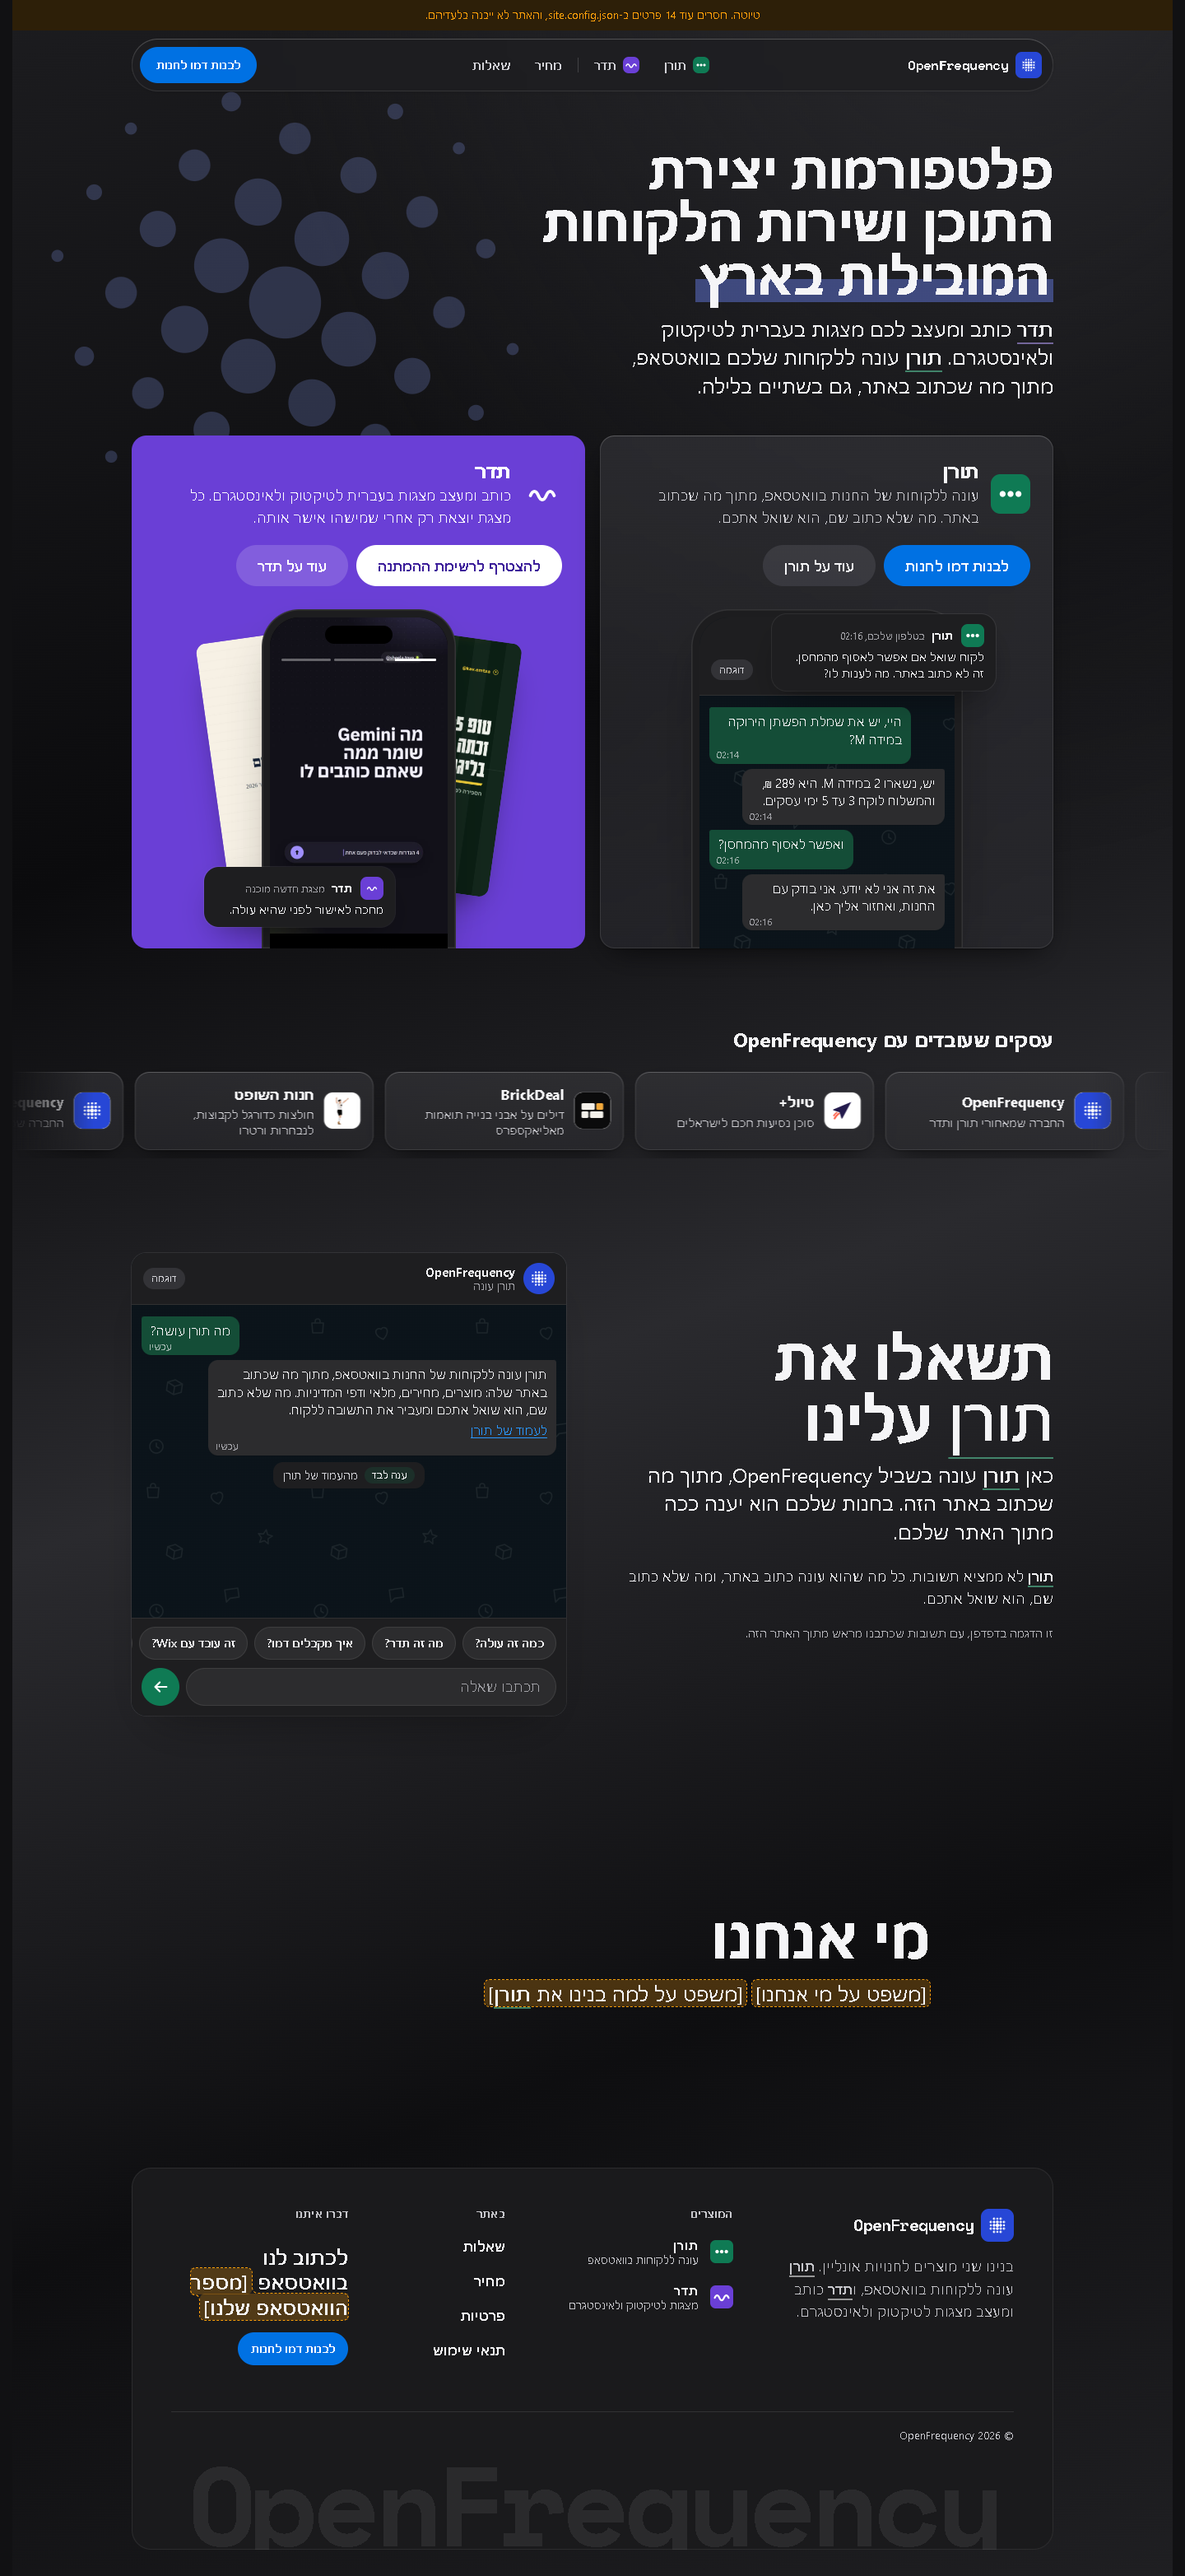
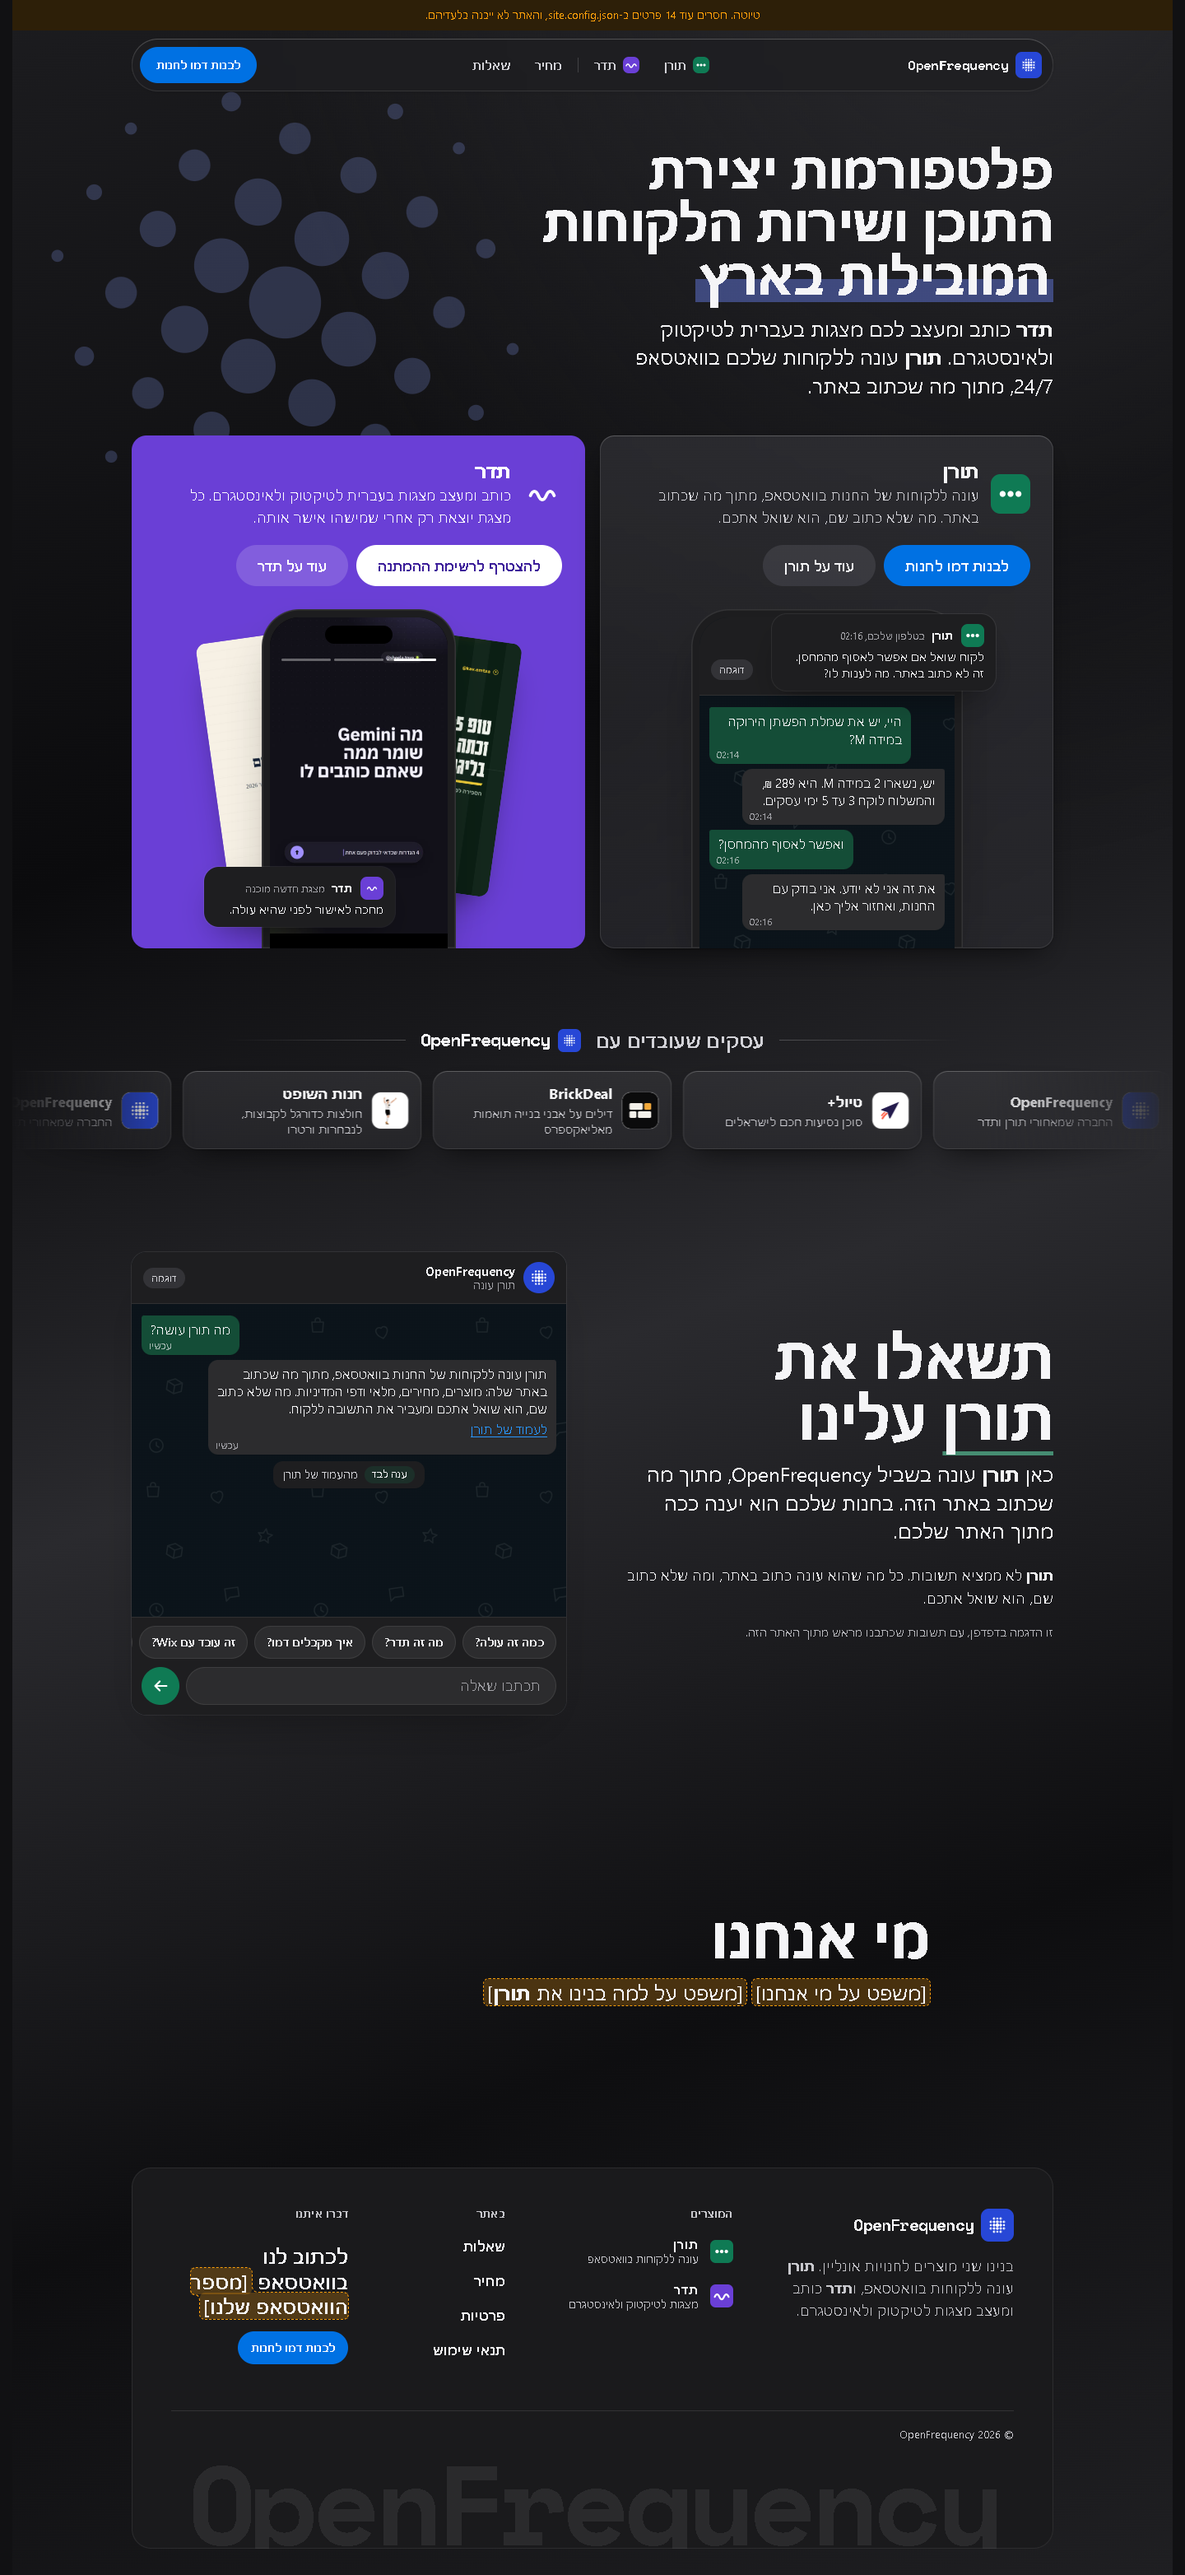
The businesses strip gets a proper title, room for its shadows, wider fades and a slower pace; names are bold in text and underlined only in headings; Toran answers 24/7
Claude-Session: https://claude.ai/code/session_013ytyKksuwzF2xehLBuYDbT

diff --git a/src/style.css b/src/style.css
@@ -244,12 +244,14 @@ p:last-child { margin-bottom: 0; }
 .mark.toran { background: var(--toran); }
 .mark.teder { background: var(--teder); }
 /* Toran and Teder inside a sentence, set as names (markNames in lib.mjs), so nobody reads them as the plain words.
-   Quietly: the sentence's own ink, a step heavier, over a thin line in the product's colour. */
-.pn { font-weight: 600; text-decoration: underline 2px color-mix(in srgb, var(--pn) 55%, transparent); text-underline-offset: 0.28em; text-decoration-skip-ink: none; }
+   In running text the name is bold, nothing more; in a heading, already bold, it sits on a thin line in the
+   product's colour. */
+.pn { font-weight: 700; }
+:is(h1, h2, h3) .pn { text-decoration: underline 0.07em color-mix(in srgb, var(--pn) 60%, transparent); text-underline-offset: 0.2em; text-decoration-skip-ink: none; }
 .pn.toran { --pn: var(--toran-name); }
 .pn.teder { --pn: var(--teder-name); }
-/* on Teder's violet and the dark footer, the line is white */
-.teder-door .pn, .teder-field .pn, .foot .pn { --pn: #fff; }
+/* on Teder's violet the line is white */
+.teder-field .pn, .teder-door .pn { --pn: #fff; }
 .mark.inline { display: inline-block; vertical-align: -0.18em; margin-inline-end: 0.3em; --s: 1.05em; }
 
 /* ------------------------------------------------------------ buttons and fields */
@@ -450,12 +452,23 @@ input:focus, textarea:focus { outline: none; border-color: var(--accent-fill); b
    by one list's width, so the loop has no seam; it stops under the pointer or on focus, and stands still for anyone
    who asked for less motion, as a row they can scroll. */
 .clients-sec { padding-top: clamp(48px, 6vw, 80px); }
-.clients-sec h2 { font-size: var(--fs-lead); line-height: 1.25; }
-.clients { margin-top: 18px; overflow: hidden; direction: ltr; -webkit-mask-image: linear-gradient(90deg, transparent, #000 7%, #000 93%, transparent); mask-image: linear-gradient(90deg, transparent, #000 7%, #000 93%, transparent); }
-.clients-row { display: flex; width: max-content; animation: clients calc(var(--n) * 5s) linear infinite; }
+/* the title sits centred between two hairlines that fade out, our name in its own type with the mark */
+.clients-h { display: flex; align-items: center; justify-content: center; gap: 18px; color: var(--ink-2); font-size: var(--fs-lead); font-weight: 600; line-height: 1.3; text-align: center; }
+.clients-h > span:first-child { flex: none; }
+.clients-of { display: inline-flex; flex: none; align-items: center; gap: 9px; color: var(--ink); }
+.clients-of b { direction: ltr; font: 700 0.92em/1 var(--wordmark); letter-spacing: -0.04em; }
+.clients-h::before, .clients-h::after { content: ""; flex: 1 1 0; max-width: 220px; height: 1px; }
+.clients-h::before { background: linear-gradient(to left, transparent, color-mix(in srgb, var(--ink) 22%, transparent)); }
+.clients-h::after { background: linear-gradient(to right, transparent, color-mix(in srgb, var(--ink) 22%, transparent)); }
+@media (max-width: 699px) { .clients-h { flex-wrap: wrap; gap: 6px 10px; } .clients-h::before, .clients-h::after { display: none; } }
+/* room above and below the cards for their shadow, which overflow: hidden would cut; the negative margin gives
+   the room back to the page */
+.clients { --fade: linear-gradient(90deg, transparent, #000 16%, #000 84%, transparent); margin: 6px 0 -34px; overflow: hidden; direction: ltr; -webkit-mask-image: var(--fade); mask-image: var(--fade); }
+@media (max-width: 699px) { .clients { --fade: linear-gradient(90deg, transparent, #000 10%, #000 90%, transparent); } }
+.clients-row { display: flex; width: max-content; animation: clients calc(var(--n) * 8s) linear infinite; }
 .clients:hover .clients-row, .clients:focus-within .clients-row { animation-play-state: paused; }
 @keyframes clients { to { transform: translateX(-50%); } }
-.clients-list { display: flex; gap: 14px; margin: 0; padding: 6px 7px 10px; list-style: none; }
+.clients-list { display: flex; gap: 14px; margin: 0; padding: 16px 7px 44px; list-style: none; }
 .client { direction: rtl; display: flex; align-items: center; gap: 12px; width: 290px; height: 100%; padding: 14px 16px; border-radius: var(--r); color: var(--ink); text-decoration: none; transition: transform 0.25s var(--ease-out); }
 @media (hover: hover) { .client:hover { transform: translateY(-2px); } }
 .client-logo { display: grid; place-items: center; width: 44px; height: 44px; flex: none; overflow: hidden; border-radius: 24%; background: #fff; box-shadow: 0 0 0 1px var(--edge); }

diff --git a/DESIGN.md b/DESIGN.md
@@ -188,7 +188,7 @@ A hue-less silver and ink system with one action blue, three brand-mark colours,
 - **OK Green** (ok-green) is for success lines. **Warn** on **Warn Ground** is for form errors, "fixed" status and the draft banner.
 
 ### Product names
-Toran and Teder are Hebrew words, so in a sentence they are set as names, quietly: the sentence's own ink at weight 600 over a thin underline in the product's colour (`.pn`). The build does it (`markNames` in `src/lib.mjs`), so new copy needs nothing. A name standing alone, the nav, buttons, links and the product fragments are left as they are.
+Toran and Teder are Hebrew words, so in a sentence they are set as names, quietly (`.pn`): bold in running text, and in a heading a thin underline in the product's colour. The build does it (`markNames` in `src/lib.mjs`), so new copy needs nothing. A name standing alone, the nav, buttons, links and the product fragments are left as they are.
 
 ### Named Rules
 **The No Hue Wallpaper Rule.** The wallpaper and every tile are hue-less silver. Colour arrives only with the product's fragments, the brand marks, the action blue and the one violet field.
